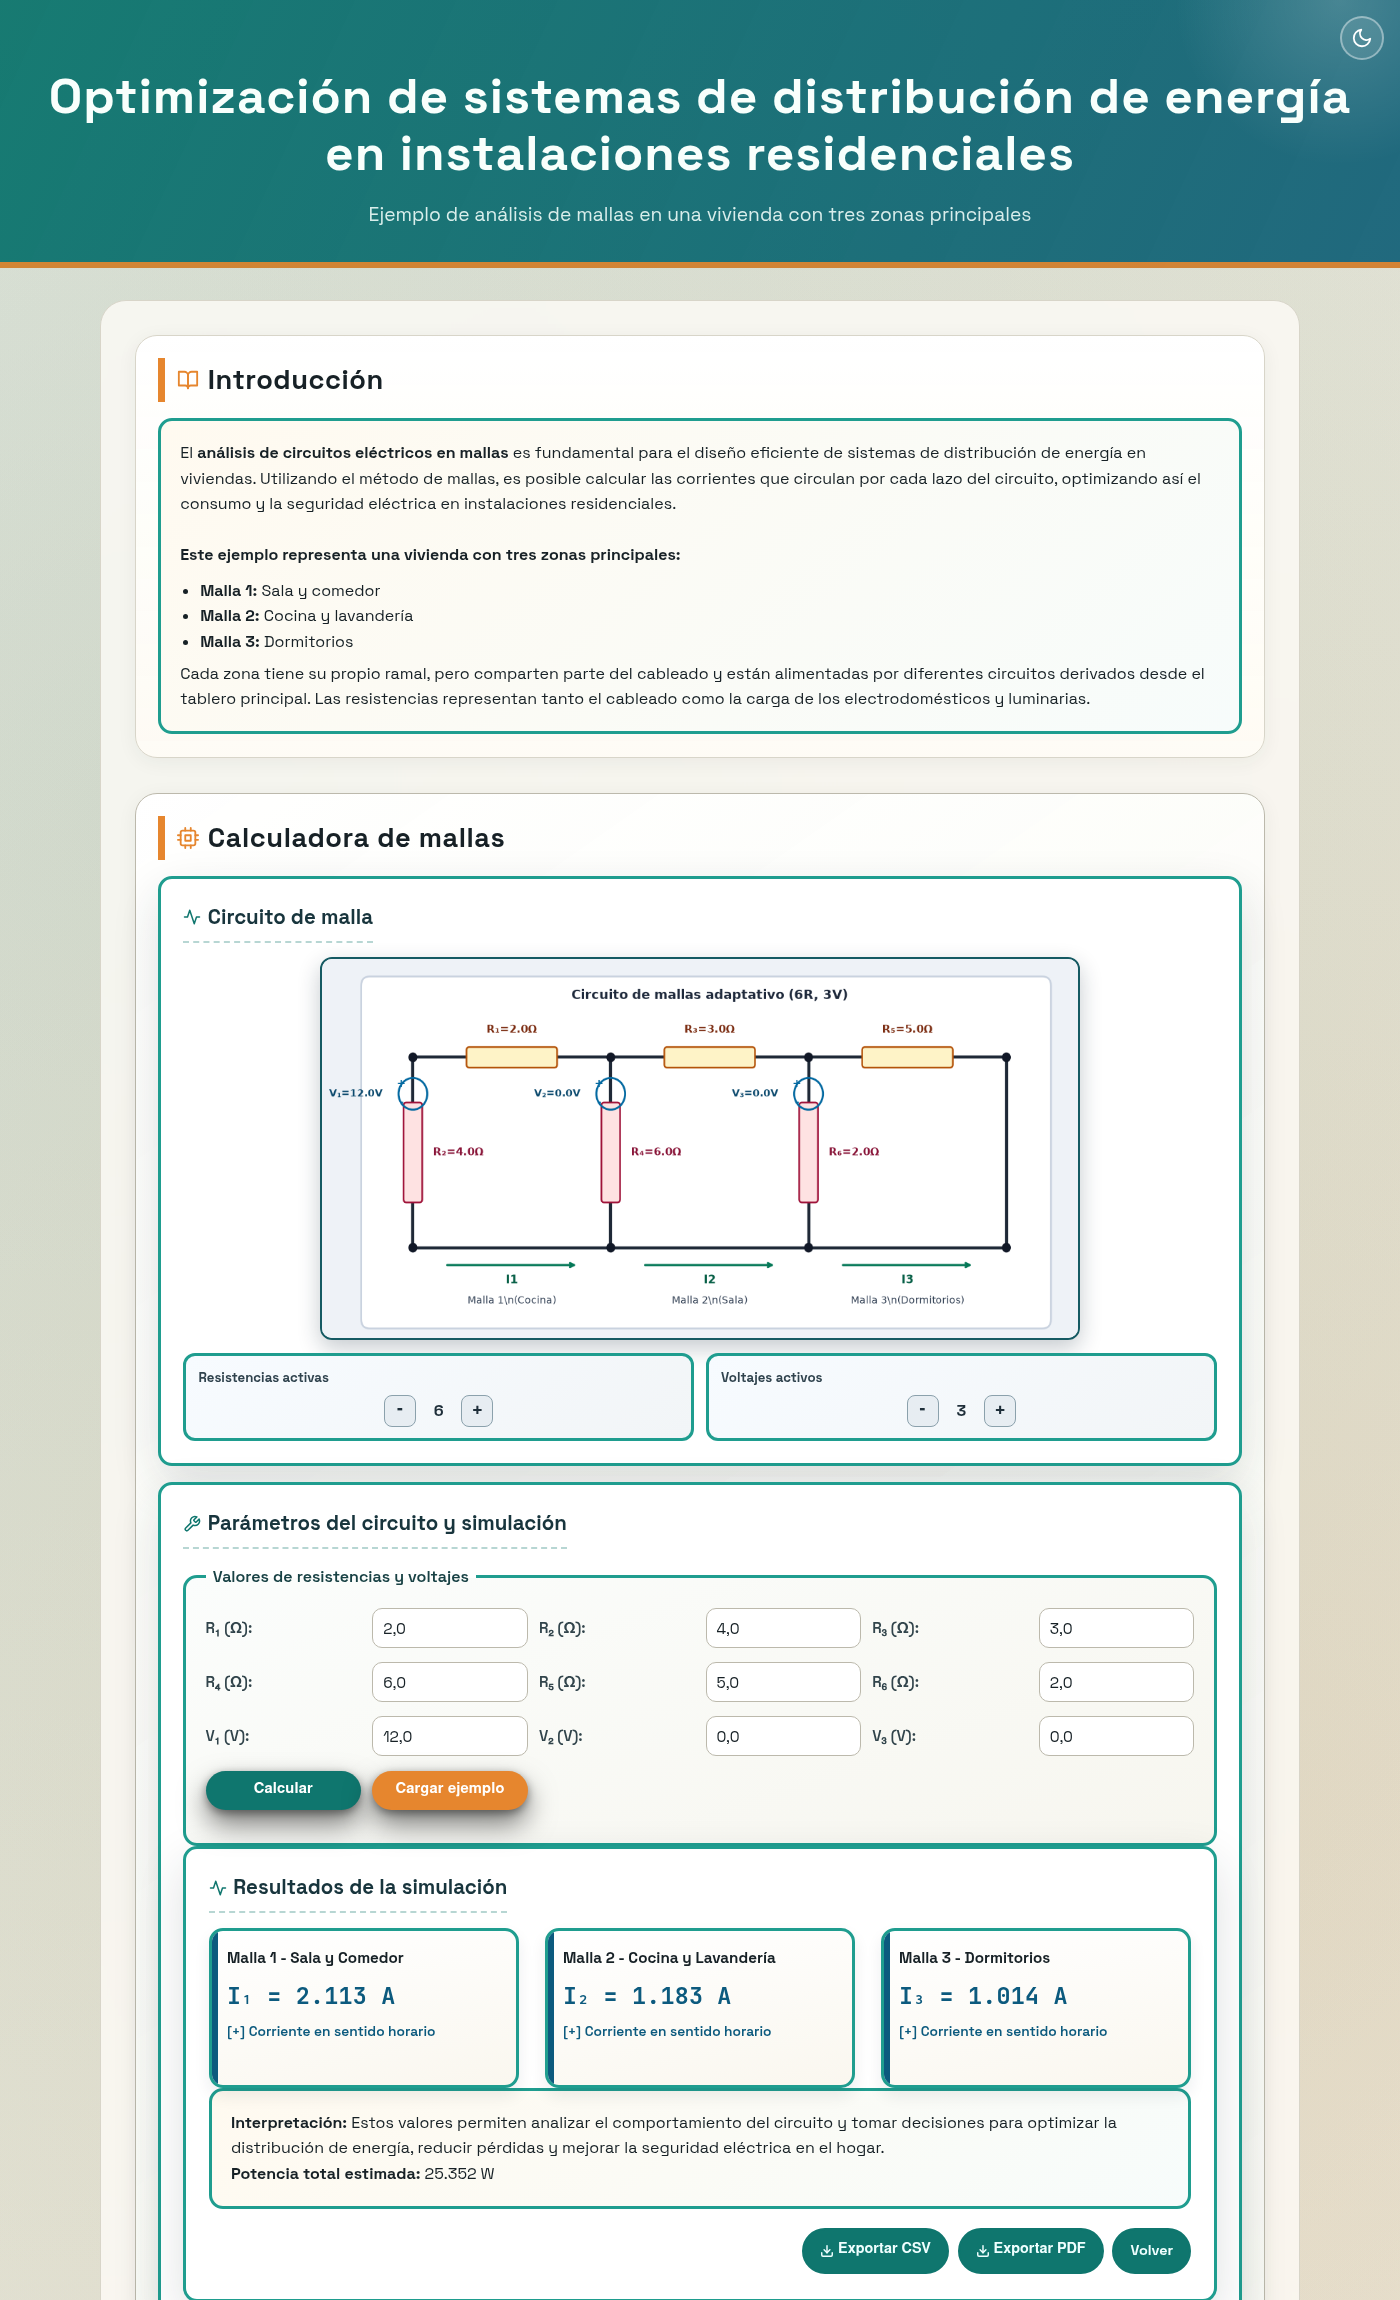
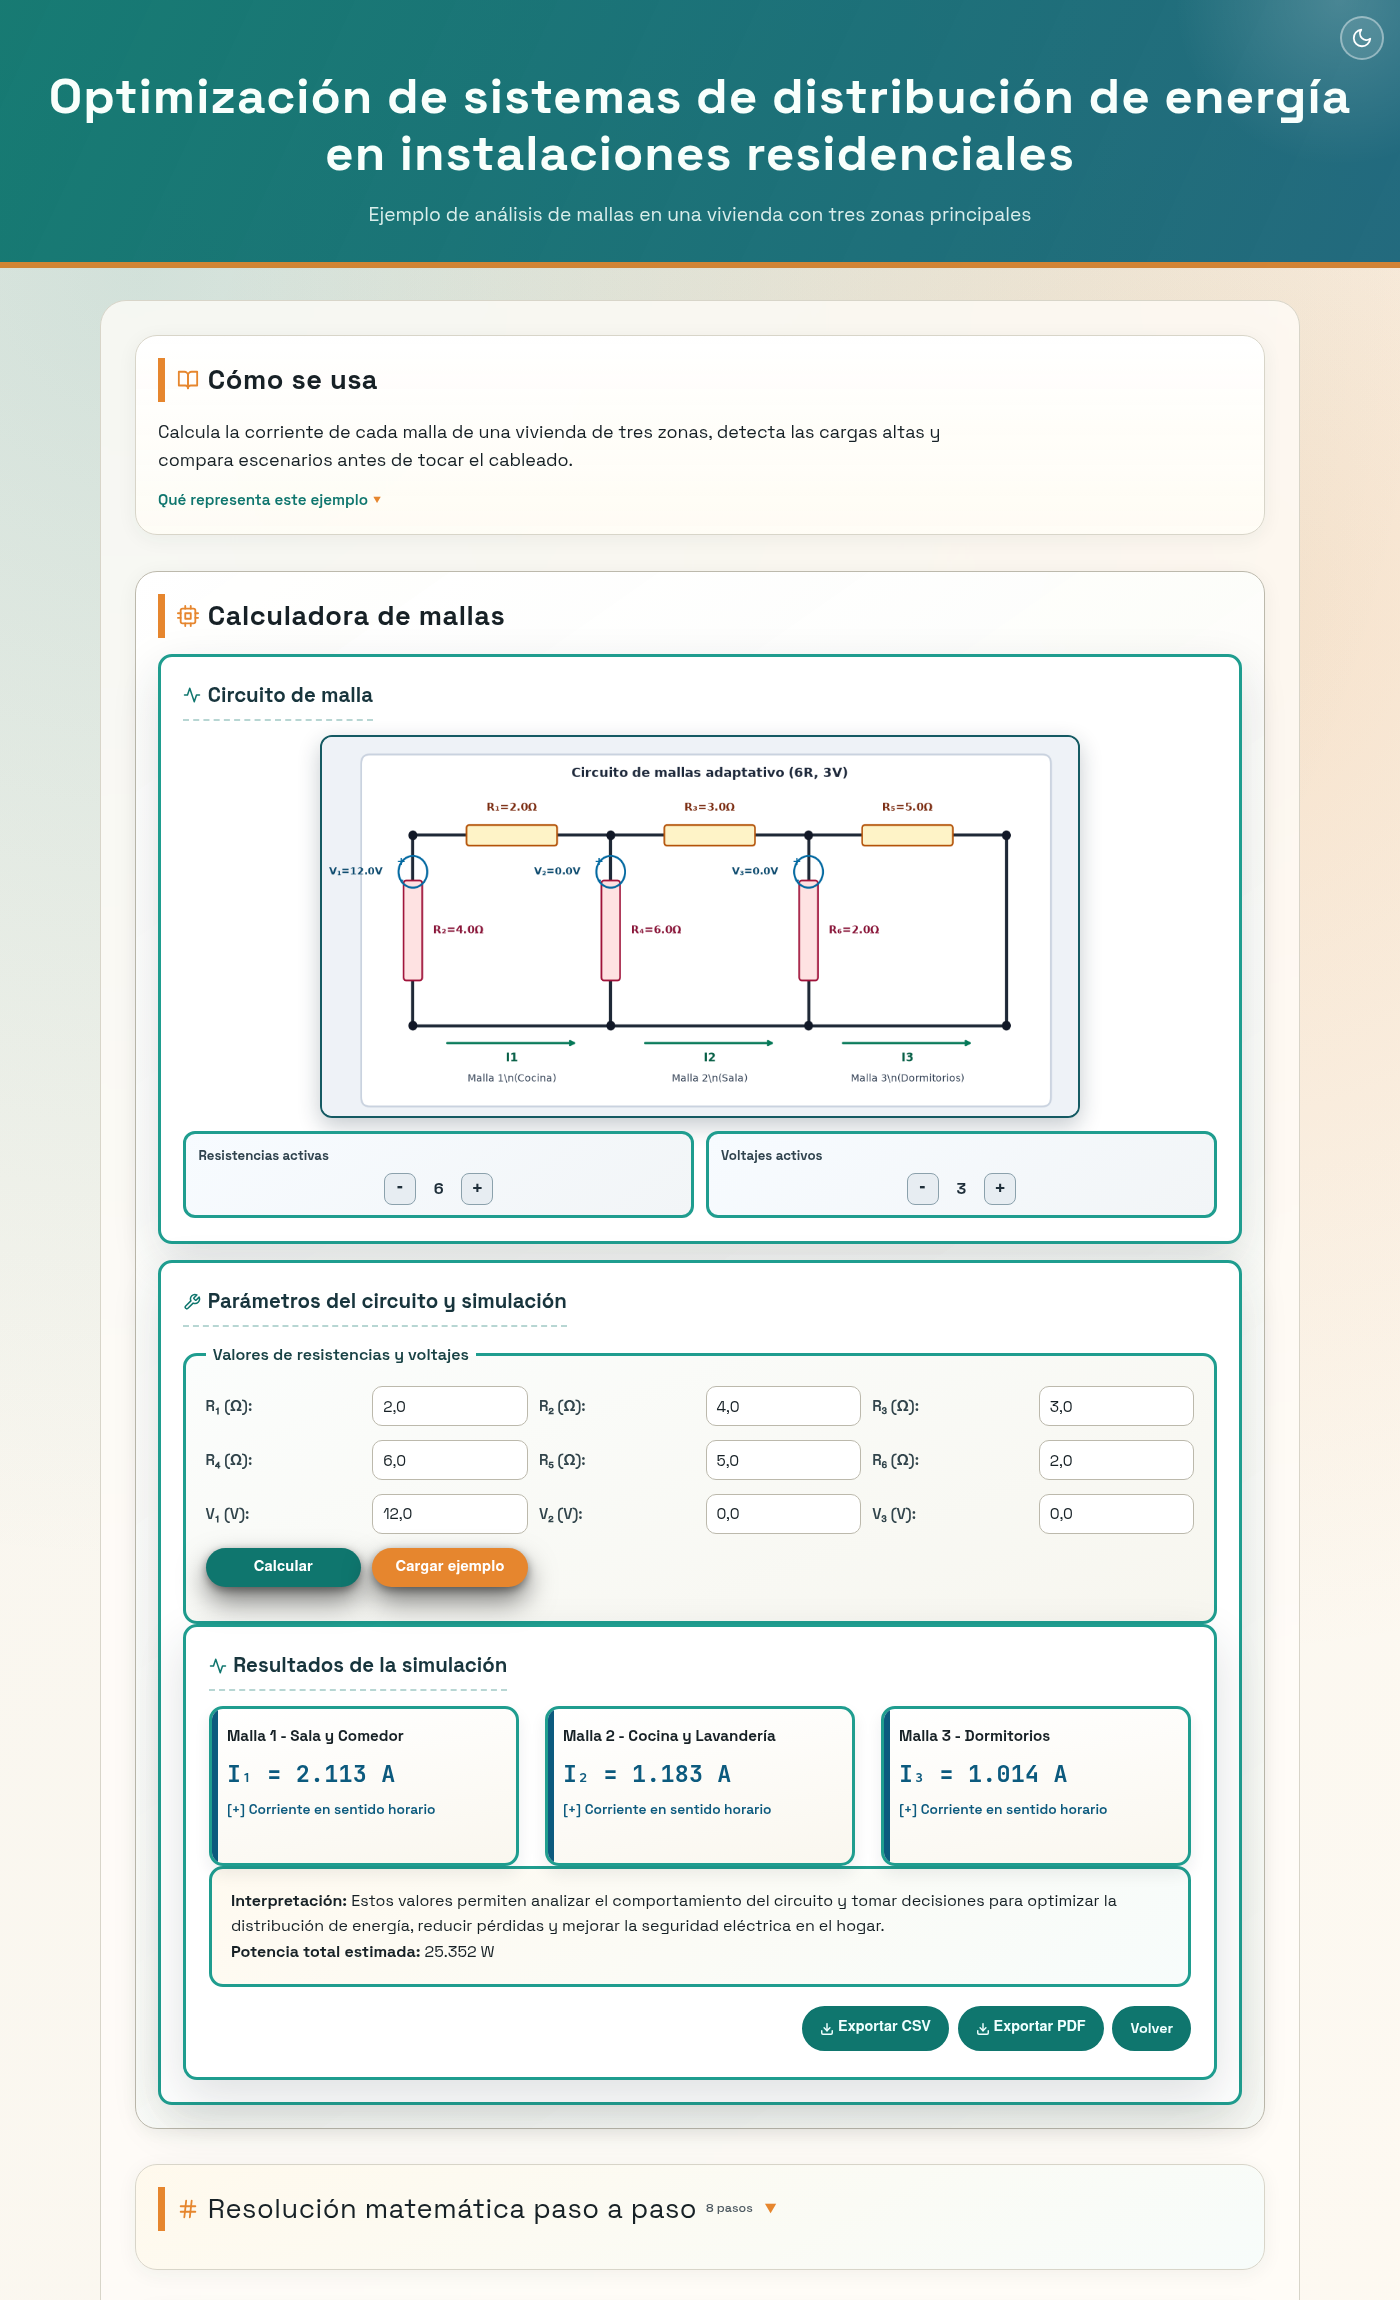
fix(ui): la herramienta manda; el material didactico va plegado
Critica sobre capturas reales. Con resultados, la pagina media 12 000 px y la
calculadora quedaba sepultada bajo el contenido educativo.

- Los ocho pasos de la resolucion matematica y las secciones "como se calcula"
  e "importancia" se pliegan con el elemento nativo details, sin JavaScript ni
  perdida de accesibilidad. La pagina baja a unos 2 400 px con resultados.
- La introduccion pasa a "Como se usa": una linea de contexto visible y el resto
  en un desplegable. En movil la calculadora ya entra en la primera pantalla.
- Los desplegables heredan el estilo de tarjeta de las secciones; antes quedaban
  sueltos sobre el fondo.
- Capturas del README regeneradas, incluida la vista movil, tomadas con
  --force-prefers-reduced-motion para no congelar cifras a medio animar.

114 pruebas, ruff y black limpios.

diff --git a/templates/index.html b/templates/index.html
@@ -59,18 +59,25 @@
         <section>
             <h2 class="section-title section-title-icon">
                 <svg xmlns="http://www.w3.org/2000/svg" viewBox="0 0 24 24" fill="none" stroke="currentColor" stroke-width="2" stroke-linecap="round" stroke-linejoin="round" aria-hidden="true"><path d="M2 3h6a4 4 0 0 1 4 4v14a3 3 0 0 0-3-3H2z"></path><path d="M22 3h-6a4 4 0 0 0-4 4v14a3 3 0 0 1 3-3h7z"></path></svg>
-                Introducción
+                Cómo se usa
             </h2>
-            <div class="explanation">
-                El <b>análisis de circuitos eléctricos en mallas</b> es fundamental para el diseño eficiente de sistemas de distribución de energía en viviendas. Utilizando el método de mallas, es posible calcular las corrientes que circulan por cada lazo del circuito, optimizando así el consumo y la seguridad eléctrica en instalaciones residenciales.<br><br>
-                <b>Este ejemplo representa una vivienda con tres zonas principales:</b> <br>
-                <ul>
-                    <li><b>Malla 1:</b> Sala y comedor</li>
-                    <li><b>Malla 2:</b> Cocina y lavandería</li>
-                    <li><b>Malla 3:</b> Dormitorios</li>
-                </ul>
-                Cada zona tiene su propio ramal, pero comparten parte del cableado y están alimentadas por diferentes circuitos derivados desde el tablero principal. Las resistencias representan tanto el cableado como la carga de los electrodomésticos y luminarias.
-            </div>
+            <p class="lead">
+                Calcula la corriente de cada malla de una vivienda de tres zonas, detecta las cargas
+                altas y compara escenarios antes de tocar el cableado.
+            </p>
+            <details class="educativo">
+                <summary class="explanation-summary">Qué representa este ejemplo</summary>
+                <div class="explanation">
+                    El <b>análisis de circuitos eléctricos en mallas</b> es fundamental para el diseño eficiente de sistemas de distribución de energía en viviendas. Utilizando el método de mallas, es posible calcular las corrientes que circulan por cada lazo del circuito, optimizando así el consumo y la seguridad eléctrica en instalaciones residenciales.<br><br>
+                    <b>Este ejemplo representa una vivienda con tres zonas principales:</b> <br>
+                    <ul>
+                        <li><b>Malla 1:</b> Sala y comedor</li>
+                        <li><b>Malla 2:</b> Cocina y lavandería</li>
+                        <li><b>Malla 3:</b> Dormitorios</li>
+                    </ul>
+                    Cada zona tiene su propio ramal, pero comparten parte del cableado y están alimentadas por diferentes circuitos derivados desde el tablero principal. Las resistencias representan tanto el cableado como la carga de los electrodomésticos y luminarias.
+                </div>
+            </details>
         </section>
         <!-- Apartado agrupado: Calculadora de mallas -->
         <section id="calculadora" class="calc-mallas-section">
@@ -224,12 +231,13 @@
                 </div>
         </section>
         
-        <!-- Sección de matemáticas -->
-        <section class="matematicas-section">
-            <h2 class="section-title section-title-icon">
+        <!-- Sección de matemáticas: plegada, para que la calculadora mande en la página -->
+        <details class="matematicas-section educativo">
+            <summary class="section-title section-title-icon">
                 <svg xmlns="http://www.w3.org/2000/svg" viewBox="0 0 24 24" fill="none" stroke="currentColor" stroke-width="2" stroke-linecap="round" stroke-linejoin="round" aria-hidden="true"><line x1="4" y1="9" x2="20" y2="9"></line><line x1="4" y1="15" x2="20" y2="15"></line><line x1="10" y1="3" x2="8" y2="21"></line><line x1="16" y1="3" x2="14" y2="21"></line></svg>
                 Resolución matemática paso a paso
-            </h2>
+                <span class="summary-hint">8 pasos</span>
+            </summary>
             
             <!-- Paso 0: Identificación del circuito -->
             <div class="math-step">
@@ -471,7 +479,7 @@
                 </div>
             </div>
             {% endif %}
-        </section>
+        </details>
 
         <!-- Sección de herramientas avanzadas (Fase 5) -->
         <section class="advanced-section">
@@ -588,6 +596,9 @@
         </section>
 
         <!-- Metodología -->
+        <details class="educativo">
+            <summary class="section-title">Cómo se calcula, y por qué importa</summary>
+
         <section class="metodologia-section">
             <h2 class="section-title">¿Cómo se calculan las corrientes de malla?</h2>
             <div class="explanation">
@@ -629,6 +640,7 @@
                 </ul>
             </div>
         </section>
+        </details>
     </main>
     <!--
         Pie de página: Información de autoría y tema del proyecto.

diff --git a/static/styles.css b/static/styles.css
@@ -1636,3 +1636,90 @@ input[title]:hover {
         max-width: none;
     }
 }
+
+/* El material didáctico va plegado: la calculadora manda y la página deja de medir doce mil
+   píxeles. <details> nativo, sin JavaScript, y el teclado funciona por sí solo. */
+details.educativo > summary {
+    cursor: pointer;
+    list-style: none;
+    user-select: none;
+}
+
+details.educativo > summary::-webkit-details-marker {
+    display: none;
+}
+
+details.educativo > summary::after {
+    content: " ▾";
+    color: var(--accent);
+}
+
+details.educativo[open] > summary::after {
+    content: " ▴";
+}
+
+details.educativo > summary:focus-visible {
+    outline: 3px solid var(--accent);
+    outline-offset: 4px;
+    border-radius: 6px;
+}
+
+details.educativo[open] > summary {
+    margin-bottom: 1.1rem;
+}
+
+.summary-hint {
+    font-size: 0.78rem;
+    font-weight: 500;
+    color: var(--muted);
+    letter-spacing: 0;
+    white-space: nowrap;
+}
+
+/* Los desplegables son secciones de pleno derecho: sin esto quedaban sueltos sobre el fondo,
+   sin la tarjeta ni el borde que tienen las demás. */
+main > details {
+    margin-bottom: clamp(1.3rem, 2.8vw, 2.2rem);
+    padding: clamp(1rem, 2vw, 1.4rem);
+    background: var(--section-bg);
+    border: 1px solid var(--line);
+    border-radius: var(--radius-lg);
+    box-shadow: 0 4px 20px rgba(26, 43, 52, 0.06);
+    transition: background var(--transition), border-color var(--transition);
+}
+
+/* La herramienta manda: una línea de contexto y el resto a un clic. */
+.lead {
+    margin: 0 0 0.9rem;
+    font-size: clamp(0.98rem, 1.4vw, 1.12rem);
+    color: var(--ink);
+    line-height: 1.55;
+    max-width: 70ch;
+}
+
+.explanation-summary {
+    cursor: pointer;
+    color: var(--brand);
+    font-weight: 600;
+    font-size: 0.95rem;
+    list-style: none;
+    user-select: none;
+}
+
+.explanation-summary::-webkit-details-marker {
+    display: none;
+}
+
+.explanation-summary::after {
+    content: " ▾";
+}
+
+details[open] > .explanation-summary::after {
+    content: " ▴";
+}
+
+.explanation-summary:focus-visible {
+    outline: 3px solid var(--accent);
+    outline-offset: 3px;
+    border-radius: 6px;
+}

diff --git a/MEJORAS_POR_FASES.md b/MEJORAS_POR_FASES.md
@@ -192,3 +192,20 @@ Revisión previa a la publicación de los commits. Hallazgos y correcciones:
 - `docs/CASO-DE-ESTUDIO.md`: el problema, las decisiones técnicas, la verificación con cifras, los
   cinco defectos de interfaz y los seis hallazgos de seguridad, y qué se haría distinto. Enlazado
   desde la cabecera del README.
+
+## Rediseño de la página (2026-11-10)
+
+Crítica sobre capturas reales, no sobre impresiones. La página medía **12 000 px** de alto con
+resultados y la herramienta quedaba sepultada bajo el material didáctico.
+
+- **El material didáctico va plegado** con el elemento nativo details, sin JavaScript: los ocho
+  pasos de la resolución matemática y las secciones «cómo se calcula» e «importancia». La página
+  baja a unos 2 400 px con resultados.
+- **La introducción pasa a «Cómo se usa»**: una línea de contexto visible y el resto detrás de un
+  desplegable. En móvil, antes, la primera pantalla era un muro de texto y la calculadora no
+  aparecía; ahora la calculadora entra en la primera pantalla.
+- **Los desplegables son tarjetas**: heredan el mismo fondo, borde y sombra que las secciones, que
+  antes sólo se aplicaban a las secciones hijas directas de main.
+- Capturas del README regeneradas, incluida la vista móvil. Se toman con
+  --force-prefers-reduced-motion para que el contador animado no congele cifras intermedias.
+- 114 pruebas, ruff y black en verde.
